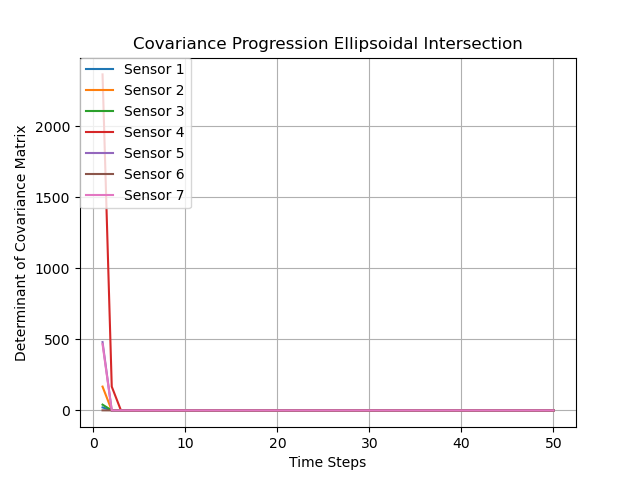
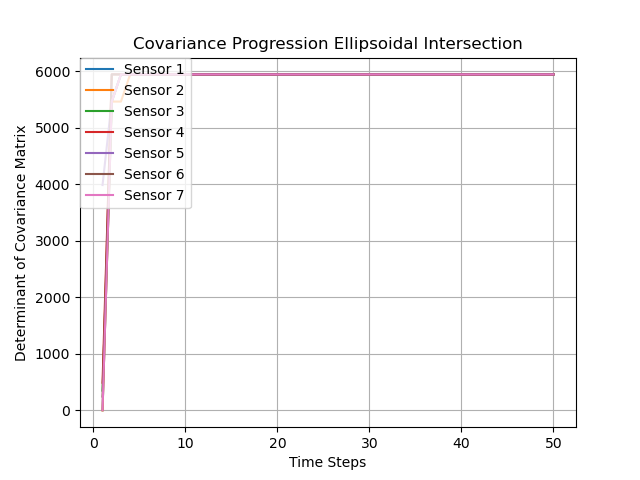
WIP: Something is def wrong with ellip rn

diff --git a/decentralizedFusion.py b/decentralizedFusion.py
@@ -10,13 +10,7 @@ import matplotlib.pyplot as plt
 import cProfile, pstats, io
 from pstats import SortKey
 from numpy import dot
-
-
-def plot_last_ellipse(covariance, ax, label_t):
-    x_el = np.array([np.sin(np.linspace(0, 2*math.pi, num=63)), np.cos(np.linspace(0, 2*math.pi, num=63))])
-    C = np.linalg.cholesky(covariance)
-    y_el = np.dot(C, x_el)
-    ax.plot(y_el[0], y_el[1], label=label_t, linewidth=3)
+from utils import check_if_singular
 
 def CI(mu_s, cov_s, weights):
     total_cov = np.zeros(cov_s[0].shape)
@@ -62,14 +56,6 @@ def find_optimal_cov_and_mu_analytical(iter, mu_s, cov_s, count):
     return mu, cov, count
 
 
-def get_weights(sensor_covariances):
-    determinats = np.array([np.linalg.det(cov) for cov in sensor_covariances])
-    c = np.copy(determinats)
-    m_det = max(determinats)
-    determinats = np.array([m_det - det for det in determinats])
-    weights = determinats/np.linalg.norm(determinats)
-    return weights, c
-
 def covarianceIntersection(sensor_readings, sensor_covariances, N_time_steps, neighbors, N_agents, KL_inp, true_dist, calculate_KL=False, calculate_det=True):
     count = 0.0
     KL_div = {}
@@ -98,9 +84,11 @@ def covarianceIntersection(sensor_readings, sensor_covariances, N_time_steps, ne
                 converged = False
                 break
         if converged:
+            N_time_steps = i
             break
 
     percent = (count/(N_time_steps*N_agents))*100
+    print("Sensors converged after " + str(i) + " time steps...")
     print("Percent of time alternative weights used: " + str(percent) + " %")
     return sensor_readings, sensor_covariances, KL_div, determinant_progression
 
@@ -108,7 +96,7 @@ def MutualCovariance(cov_i, cov_j):
     _, S_i = LA.eig(cov_i)
     D_i = np.diag(LA.eigvals(cov_i))
     D_i_05 = D_i ** 0.5
-    D_i_neg = np.where(D_i>1e-320, D_i**-0.5, 0)
+    D_i_neg = LA.inv(D_i_05)
     comb = D_i_neg @ LA.inv(S_i) @ cov_j @ S_i @ D_i_neg
     _, S_j = LA.eig(comb)
     D_j = np.diag(LA.eigvals(comb))
@@ -117,30 +105,35 @@ def MutualCovariance(cov_i, cov_j):
     S_j_inv = LA.inv(S_j)
     return S_i @ D_i_05 @ S_j @ D_T @ S_j_inv @ D_i_05 @ S_i_inv
 
-def check_if_singular(M):
-    return LA.det(M) == 0
 
 def MutualMean(cov_i, cov_j, mut_cov, mu_i, mu_j):
-    if(check_if_singular(cov_i)):
-        return [], True
-    if(check_if_singular(cov_j)):
-        return [], True
-    if(check_if_singular(mut_cov)):
-        return [], True
-    H = LA.inv(cov_i) + LA.inv(cov_j) - 2*LA.inv(mut_cov)
+    H = np.subtract(np.add(LA.inv(cov_i), LA.inv(cov_j)), np.multiply(2, LA.inv(mut_cov)))
     lamda = 0
-    if round(LA.det(H), 50) == 0:
-        (w, v) = LA.eigvals(H)
-        w = np.where(w!=0, w, np.inf)
-        lamda = np.amin(np.where(w != 0,w, np.inf))
+    if LA.det(H) == float(0):
+        eig_H, _ = np.linalg.eigh(H)
+        if(len(list(filter(lambda x: x != 0, eig_H))) == 0):
+            eta = 0
+        else:
+            smallest_nonzero_ev = min(list(filter(lambda x: x != 0, eig_H)))
+            eta = 0.0001 * smallest_nonzero_ev 
 
-    inside = LA.inv(cov_i) + LA.inv(cov_j) - 2*LA.inv(mut_cov) +2*lamda
-    if(check_if_singular(inside)):
-        return [], True
-    mat_1 = LA.inv(inside)
-    mat_2 = np.dot(LA.inv(cov_j) - LA.inv(mut_cov) + lamda, mu_i)
-    mat_3 = np.dot(LA.inv(cov_i) - LA.inv(mut_cov) + lamda, mu_j)
-    return  np.dot(mat_1, (mat_2 + mat_3)), False
+    inside = LA.inv(cov_i) + LA.inv(cov_j) - np.multiply(2, LA.inv(mut_cov)) +np.multiply(2*lamda,np.identity(mut_cov.shape[0]))
+    try:
+        mat_1 = LA.inv(inside)
+        mat_2 = np.dot(LA.inv(cov_j) - LA.inv(mut_cov) + lamda, mu_i)
+        mat_3 = np.dot(LA.inv(cov_i) - LA.inv(mut_cov) + lamda, mu_j)
+        # if math.isnan(np.sum(mat_1)) or math.isnan(np.sum(mat_2)) or math.isnan(np.sum(mat_3)):
+        #     raise Exception('nan is in matrix')
+        return  np.dot(mat_1, (mat_2 + mat_3)), False
+    except:
+        return mu_i, True
+
+def EI_fusedMeanCov(mu_i, mu_j, cov_i, cov_j):
+    cov_m = MutualCovariance(cov_i, cov_j)
+    mu_m, _ = MutualMean(cov_i, cov_j, cov_m, mu_i, mu_j)
+    cov_f = LA.inv(LA.inv(cov_i) + LA.inv(cov_j) - LA.inv(cov_m))
+    mu_f = np.dot(cov_f, np.dot(LA.inv(cov_i), mu_i) + np.dot(LA.inv(cov_j), mu_j) - np.dot(LA.inv(cov_m), mu_m))
+    return mu_f, cov_f
 
 def ellipsoidalIntersection(sensor_mus, sensor_covariarances, neighbors, time_steps=1000, track_KL=False, track_det=True, true_dist=0, KL_inp=[]):
     N_agents = len(sensor_mus)
@@ -154,7 +147,7 @@ def ellipsoidalIntersection(sensor_mus, sensor_covariarances, neighbors, time_st
             if not [num, i] in edge_list:
                 edge_list.append([i, num])
     print("Ellipsoidal Intersection...")
-    time = 0
+    time = time_steps
     for t in tqdm(range(time_steps)):
         for edge in edge_list:
             i = edge[0]
@@ -163,16 +156,21 @@ def ellipsoidalIntersection(sensor_mus, sensor_covariarances, neighbors, time_st
             sensor_cov = sensor_covariarances[i]
             neighbor_mu = sensor_mus[k]
             neighbor_cov = sensor_covariarances[k]
-            mut_cov = MutualCovariance(sensor_cov, neighbor_cov)
-            mut_mu, converged = MutualMean(sensor_cov, neighbor_cov, mut_cov, sensor_mu, neighbor_mu)
+            # mut_cov = MutualCovariance(neighbor_cov, sensor_cov)
+            # mut_mu, converged = MutualMean(sensor_cov, neighbor_cov, mut_cov, sensor_mu, neighbor_mu)
+            mut_mu, mut_cov = EI_fusedMeanCov(sensor_mu, neighbor_mu, sensor_cov, neighbor_cov)
+            sensor_mus[i], sensor_mus[k] = mut_mu, mut_mu
+            sensor_covariarances[i], sensor_covariarances[k] = mut_cov, mut_cov
+            converged = True
+            ref_det = round(LA.det(sensor_covariarances[0]), 10)
+            for k in range(1, N_agents):
+                if not round(LA.det(sensor_covariarances[k]), 10) == ref_det:
+                    converged = False
+                    break
             if(converged):
                 time = t
                 break
-            sensor_mus[i], sensor_mus[k] = mut_mu, mut_mu
-            sensor_covariarances[i], sensor_covariarances[k] = mut_cov, mut_cov
-        if(converged):
-            print("Sensors converged after " + str(time) + " time steps...")
-            break
+
         if(track_KL):
             for j in range(N_agents):
                 dist = multivariate_normal(sensor_mus[j], sensor_covariarances[j])
@@ -180,4 +178,5 @@ def ellipsoidalIntersection(sensor_mus, sensor_covariarances, neighbors, time_st
         if(track_det):
             for j in range(N_agents):
                 determinant_progression[j].append(LA.det(sensor_covariarances[j]))
+    print("Sensors converged after " + str(time) + " time steps...")
     return sensor_mus, sensor_covariarances, KL_div, determinant_progression

diff --git a/main.py b/main.py
@@ -7,7 +7,7 @@ from KL_divergence import compute_KL
 import math
 import random
 from scipy.stats import multivariate_normal
-from utils import plot_ellipse
+from utils import plot_ellipse, print_all_data
 
 import matplotlib.pyplot as plt
 import warnings
@@ -78,19 +78,21 @@ pos[:, :, 0] = x
 pos[:, :, 1] = y
 
 
-A, sens = generateGraphHypercube(my_space.dim, N_agents, 0.2)
+dist = 6
+while(dist > 4):
+    A, sens = generateGraphHypercube(my_space.dim, N_agents, 0.2)
 
-sens *= axis_length
+    sens *= axis_length
 
 
-curr_A_pow = np.copy(A)
-sum_A = np.copy(A)
-dist = 1
+    curr_A_pow = np.copy(A)
+    sum_A = np.copy(A)
+    dist = 1
 
-while np.count_nonzero(sum_A == 0) > 0:
-    curr_A_pow = np.dot(curr_A_pow, A)
-    sum_A += curr_A_pow
-    dist += 1
+    while np.count_nonzero(sum_A == 0) > 0:
+        curr_A_pow = np.dot(curr_A_pow, A)
+        sum_A += curr_A_pow
+        dist += 1
 
 print("Diameter of the graph is: " + str(dist))
 
@@ -137,18 +139,28 @@ for ind, cov in enumerate(sensor_covs):
     plot_ellipse(cov, ax, "Initial " + str(ind + 1))
 
 #Centralized Algorithm
-fused_cov, fused_mu = centralizedAlgorithm(sensor_covs, sensor_mus)
+fused_cov, fused_mu = centralizedAlgorithm(np.copy(sensor_covs), np.copy(sensor_mus))
+plot_ellipse(fused_cov, ax, "Centralized Fusion")
 
 P_centralized = multivariate_normal(fused_mu, fused_cov)
 
 #CI Decentralized Fusion
-
+print(np.linalg.det(sensor_covs[0]))
 sensor_mus_CI, sensor_covs_CI, KL_div_CI, determinants_CI = covarianceIntersection(np.copy(sensor_mus), np.copy(sensor_covs), N_time_steps, neighbors, N_agents, KL_inputs, P_centralized, calculate_KL=calculate_KL_guard, calculate_det=calculate_covariance_det)
-
+print(np.linalg.det(sensor_covs[0]))
 plot_ellipse(sensor_covs_CI[0], ax, "Fused CI")
-
 sensor_mus_Ellip, sensor_covs_Ellip, KL_div_Ellip, determinants_Ellip = ellipsoidalIntersection(np.copy(sensor_mus), np.copy(sensor_covs), neighbors, time_steps=1000, KL_inp = KL_inputs, true_dist=P_centralized)
 plot_ellipse(sensor_covs_Ellip[0], ax, "Fused Ellipsoidal")
+
+output_data = []
+output_data.append(["Centralized Fusion", np.linalg.det(fused_cov), "NA", fused_mu])
+Q = multivariate_normal(sensor_mus_CI[0], sensor_covs_CI[0])
+output_data.append(["Covariance Intersection", np.linalg.det(sensor_covs_CI[0]), compute_KL(P_centralized, Q, KL_inputs), sensor_mus_CI[0]])
+Q = multivariate_normal(sensor_mus_Ellip[0], sensor_covs_Ellip[0])
+output_data.append(["Ellipsoidal Intersection", np.linalg.det(sensor_covs_Ellip[0]), compute_KL(P_centralized, Q, KL_inputs), sensor_mus_Ellip[0]])
+print_all_data(output_data, sensor_covs)
+
+
 
 plt.legend(loc='upper left', borderaxespad=0.)
 plt.grid(b = True)
@@ -211,9 +223,6 @@ if(calculate_covariance_det):
     plt.grid(b = True)
     plt.savefig("Covariance_Progression_Ellipse.png")
     plt.show()
-
-
-
 
 
 

diff --git a/utils.py b/utils.py
@@ -1,5 +1,7 @@
 import numpy as np
 import math
+import numpy.linalg as LA
+from tabulate import tabulate
 
 def toTuple(arr):
     try:
@@ -8,7 +10,30 @@ def toTuple(arr):
         return arr
 
 def plot_ellipse(covariance, ax, label_t):
-    x_el = np.array([np.sin(np.linspace(0, 2*math.pi, num=63)), np.cos(np.linspace(0, 2*math.pi, num=63))])
-    C = np.linalg.cholesky(covariance)
-    y_el = np.dot(C, x_el)
-    ax.plot(y_el[0], y_el[1], label=label_t)
+    if covariance.shape[0] == 2:
+        x_el = np.array([np.sin(np.linspace(0, 2*math.pi, num=63)), np.cos(np.linspace(0, 2*math.pi, num=63))])
+        C = np.linalg.cholesky(covariance)
+        y_el = np.dot(C, x_el)
+        ax.plot(y_el[0], y_el[1], label=label_t)
+
+def check_if_singular(M):
+    return LA.det(M) == 0
+
+def print_initial_covariances(init_cov):
+    print("Initial Covariance Determinant")
+    headers = ["Sensor Number", "Intial Covariance"]
+    output = [headers]
+    for index, cov in enumerate(init_cov):
+        output.append([index, LA.det(cov)])
+    print(tabulate(output, headers="firstrow"))
+
+def print_output_table(input_data):
+    headers = ["Data Fusion Method", "Final_Cov", "KL div", "Final Mu"]
+    output = [headers]
+    for line in input_data:
+        output.append(line)
+    print(tabulate(output, headers="firstrow"))
+
+def print_all_data(final_data, intial_covariances):
+    print_initial_covariances(intial_covariances)
+    print_output_table(final_data)

diff --git a/KL_divergence.py b/KL_divergence.py
@@ -2,6 +2,7 @@ import matplotlib.pyplot as plt
 import numpy as np
 import math
 from tqdm import tqdm
+import math
 
 np.seterr(divide='ignore', invalid='ignore')
 
@@ -28,8 +29,10 @@ def compute_KL(P, Q, input):
                 q.append(round(Q.pdf([x, y]), 100))
 
 
+    print(max(p))
+    p = np.asarray(p)
+    q = np.asarray(q)
     old_err_state = np.seterr(divide='raise')
     ignored_states = np.seterr(**old_err_state)
-    p = np.array(p)
-    q = np.array(q)
-    return np.sum(np.where(p != 0, p * np.log(p / q), 0))
+    output = np.where((p*q)> 1e-100, p * np.log(p / q), 0)
+    return np.sum(output)
